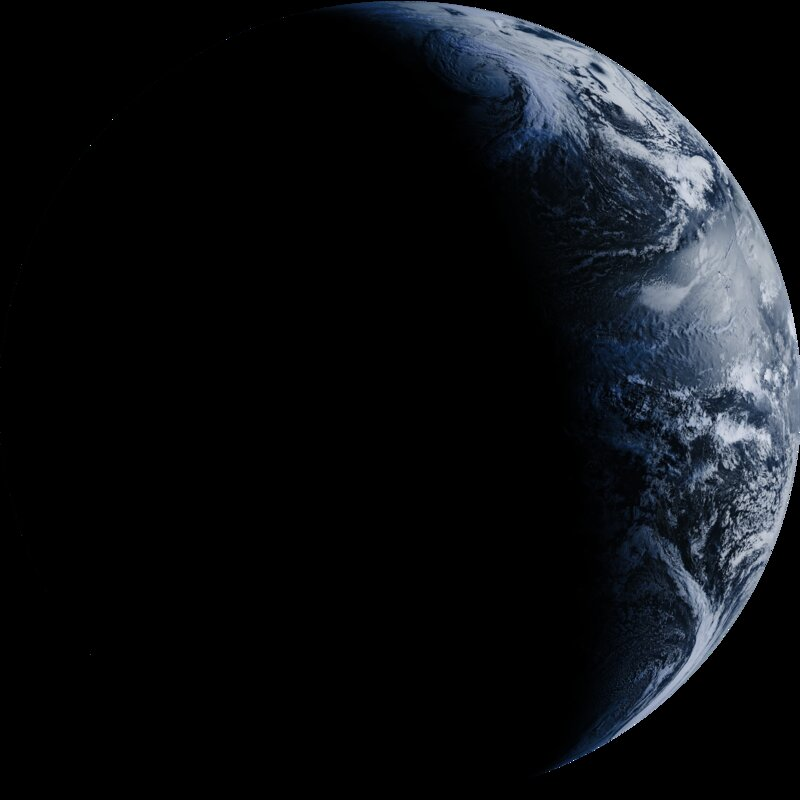
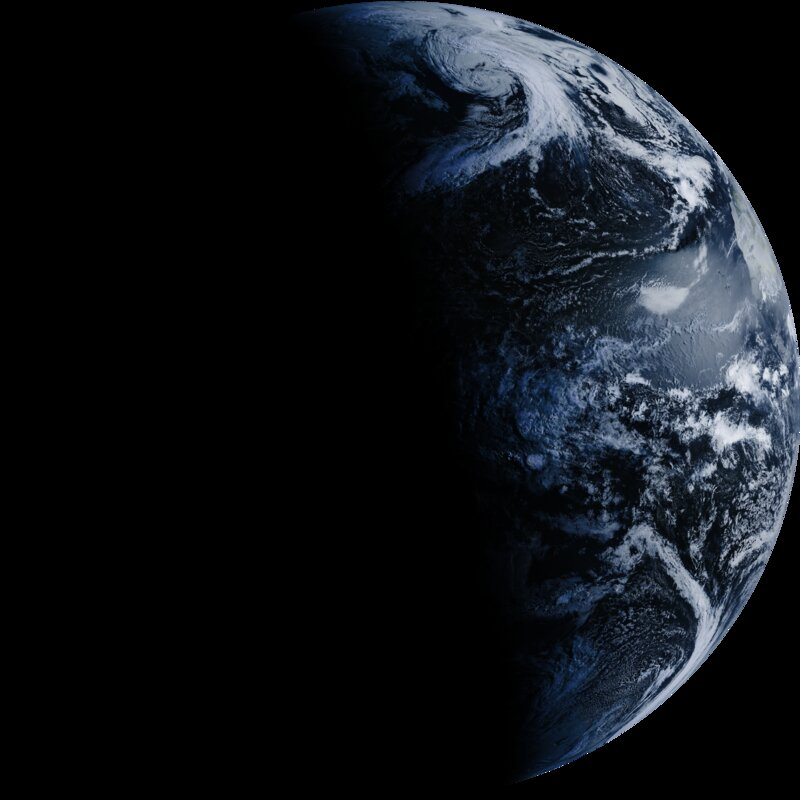
Update: 2026-05-04 13:00 UTC

Changed region(s): [[0.4062, 0.0, 1.0, 0.9688]]

diff --git a/index.html b/index.html
@@ -75,7 +75,7 @@
                 <div class="timestamp" id="timestamp">Loading...</div>
             </div>
             <a class="img-link" onclick="openLightbox()" href="javascript:void(0)">
-                <img src="latest.jpg?v=1777896002" alt="Latest GOES-19 Full Disk Image" id="satimage">
+                <img src="latest.jpg?v=1777899601" alt="Latest GOES-19 Full Disk Image" id="satimage">
                 <div class="img-overlay">View full screen</div>
             </a>
             <div class="stats-bar">
@@ -139,7 +139,7 @@
     <!-- Lightbox -->
     <div class="lightbox" id="lightbox" onclick="closeLightbox()">
         <div class="lightbox-close" onclick="closeLightbox()">&#x2715;</div>
-        <img src="latest.jpg?v=1777896002" alt="GOES-19 Full Disk" id="lightbox-img">
+        <img src="latest.jpg?v=1777899601" alt="GOES-19 Full Disk" id="lightbox-img">
     </div>
 
     <script>
